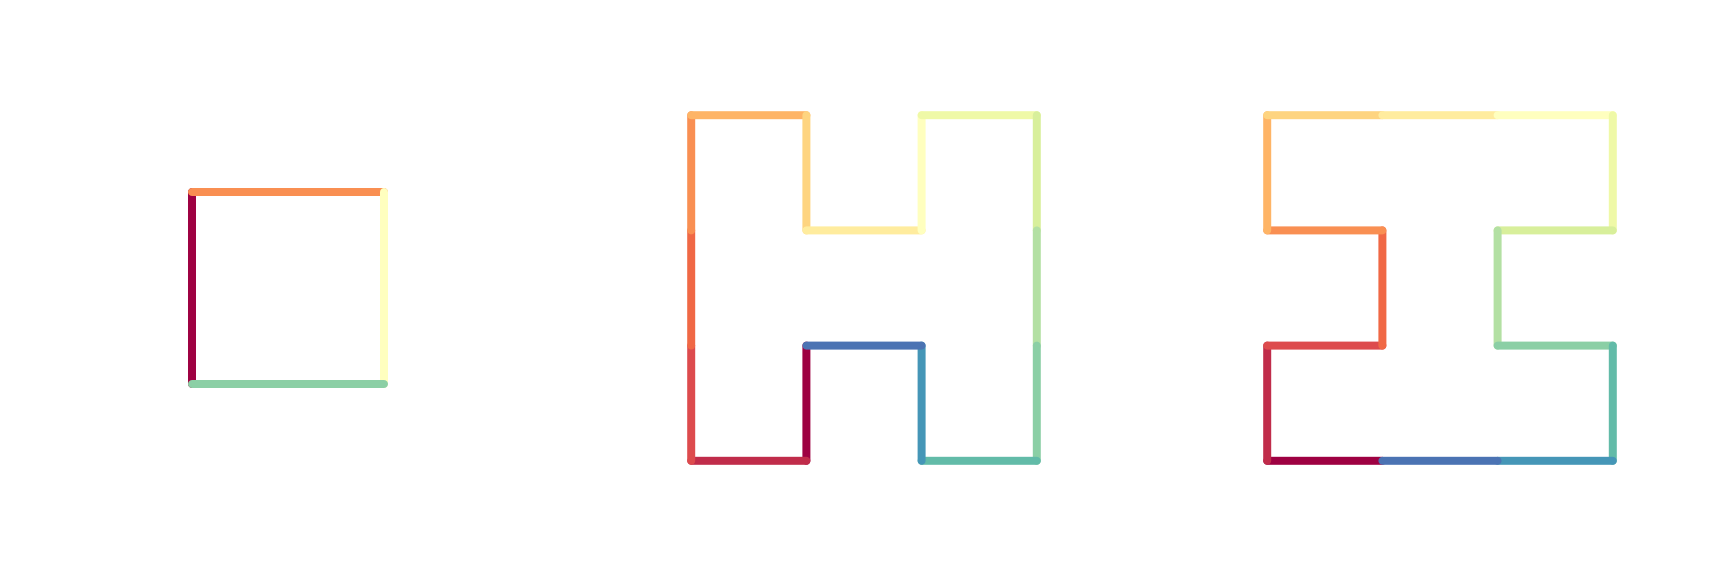
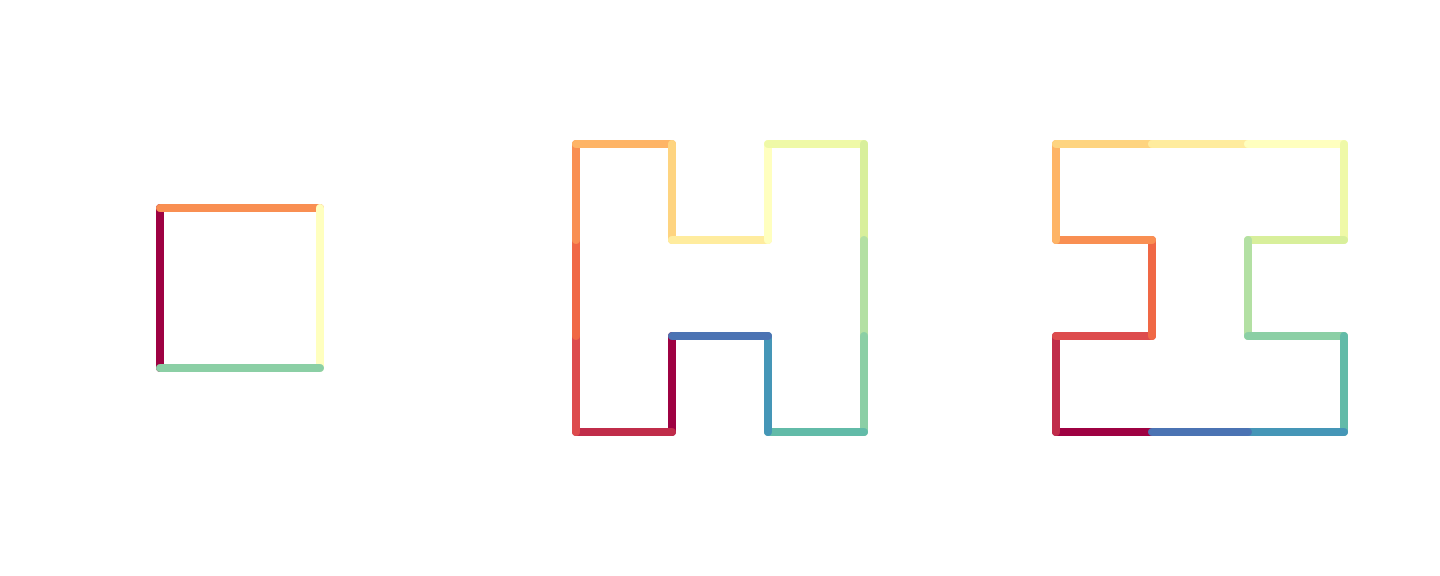
update vignette

diff --git a/docs/articles/h_curve.html b/docs/articles/h_curve.html
@@ -96,6 +96,9 @@
 
     
     
+<div class="section level2">
+<h2 id="construction-and-expansion">Construction and expansion<a class="anchor" aria-label="anchor" href="#construction-and-expansion"></a>
+</h2>
 <p>H-curve has the following two base units: an H-shape unit <span class="math inline">\(H_1\)</span> and its rotated version <span class="math inline">\(H_2\)</span>:</p>
 <div class="sourceCode" id="cb1"><pre class="downlit sourceCode r">
 <code class="sourceCode R"><span><span class="fu"><a href="../reference/draw_multiple_curves.html">draw_multiple_curves</a></span><span class="op">(</span><span class="va">H1</span>, <span class="va">H2</span>, nrow <span class="op">=</span> <span class="fl">1</span>, closed <span class="op">=</span> <span class="cn">TRUE</span><span class="op">)</span></span></code></pre></div>
@@ -131,6 +134,10 @@
 <p><img src="h_curve_files/figure-html/unnamed-chunk-5-1.png" width="768" style="display: block; margin: auto;"></p>
 <p>More generally, we can generalize the previous equation to any step of the iteration <span class="math inline">\(k\)</span>:</p>
 <p><span class="math display">\[ H^{(k)} = H_1^{(k-1)} \cdot c \cdot H_2^{(k-1)} \cdot c \cdot H_3^{(k-1)} \cdot c \cdot H_4^{(k-1)} \cdot c, \quad k \ge 1\]</span></p>
+</div>
+<div class="section level2">
+<h2 id="number-of-different-forms">Number of different forms<a class="anchor" aria-label="anchor" href="#number-of-different-forms"></a>
+</h2>
 <p>After the first iteration, the total number of forms of the H-curve denoted as <span class="math inline">\(n_1\)</span> is</p>
 <p><span class="math display">\[ n_1 = n_0^4 \cdot 2 \]</span></p>
 <p>where <span class="math inline">\(n_0\)</span> is the number of different forms of base patterns, which is 2. The second 2 is the number of connection method, i.e. “h” and “v”.</p>
@@ -147,6 +154,10 @@ n_k &amp;= n_{k-1}^4 \cdot 2\\
 <p><span class="math display">\[
 n_k = 2^{\cfrac{4^{k+1}-1}{3}} 
 \]</span></p>
+</div>
+<div class="section level2">
+<h2 id="more-general-forms">More general forms<a class="anchor" aria-label="anchor" href="#more-general-forms"></a>
+</h2>
 <p>More generally, <span class="math inline">\(H_1\)</span> and <span class="math inline">\(H_2\)</span> can be thought as building on an even smaller unit <span class="math inline">\(H_0\)</span>:</p>
 <p><span class="math display">\[
 \begin{align*}
@@ -161,7 +172,7 @@ H_2 &amp;= H_0 \cdot v \cdot H_0 \cdot v \cdot H_0 \cdot v \cdot H_0 \cdot v \\
 <span>    <span class="fu"><a href="../reference/h_curve.html">expand_h</a></span><span class="op">(</span><span class="va">H0</span>, connect <span class="op">=</span> <span class="st">"v"</span><span class="op">)</span>,</span>
 <span>    closed <span class="op">=</span> <span class="cn">TRUE</span></span>
 <span><span class="op">)</span></span></code></pre></div>
-<p><img src="h_curve_files/figure-html/unnamed-chunk-6-1.png" width="864" style="display: block; margin: auto;"></p>
+<p><img src="h_curve_files/figure-html/unnamed-chunk-6-1.png" width="720" style="display: block; margin: auto;"></p>
 <p>Also the connection methods for the four units are not necessary to be the same. In the followng example, we take <span class="math inline">\(H_0\)</span> as the base unit and take <code>vhvh</code> as the connection method, i.e. the vertical segment of the first unit, the horizontal segment of the second unit, the vertical segment of the third unit and the horizontal segment of the fourth segment are opened:</p>
 <div class="sourceCode" id="cb5"><pre class="downlit sourceCode r">
 <code class="sourceCode R"><span><span class="va">fun</span> <span class="op">=</span> <span class="kw">function</span><span class="op">(</span><span class="va">h</span>, <span class="va">k</span><span class="op">)</span> <span class="op">{</span></span>
@@ -170,6 +181,10 @@ H_2 &amp;= H_0 \cdot v \cdot H_0 \cdot v \cdot H_0 \cdot v \cdot H_0 \cdot v \\
 <span><span class="op">}</span></span>
 <span><span class="fu">fun</span><span class="op">(</span><span class="va">H0</span>, <span class="fl">5</span><span class="op">)</span> <span class="op">|&gt;</span> <span class="fu"><a href="../reference/plot_segments.html">plot_segments</a></span><span class="op">(</span>closed <span class="op">=</span> <span class="cn">TRUE</span><span class="op">)</span></span></code></pre></div>
 <p><img src="h_curve_files/figure-html/unnamed-chunk-7-1.png" width="576" style="display: block; margin: auto;"></p>
+</div>
+<div class="section level2">
+<h2 id="global-structure-is-unchanged">Global structure is unchanged<a class="anchor" aria-label="anchor" href="#global-structure-is-unchanged"></a>
+</h2>
 <p>Last, although H-curve has a large number of different forms, different settings only affect foldings locally in the curve, while its global structure is still unchanged:</p>
 <div class="sourceCode" id="cb6"><pre class="downlit sourceCode r">
 <code class="sourceCode R"><span><span class="fu"><a href="../reference/draw_multiple_curves.html">draw_multiple_curves</a></span><span class="op">(</span></span>
@@ -180,11 +195,14 @@ H_2 &amp;= H_0 \cdot v \cdot H_0 \cdot v \cdot H_0 \cdot v \cdot H_0 \cdot v \\
 <span>    nrow <span class="op">=</span> <span class="fl">2</span></span>
 <span><span class="op">)</span></span></code></pre></div>
 <p><img src="h_curve_files/figure-html/unnamed-chunk-8-1.png" width="768" style="display: block; margin: auto;"></p>
+</div>
   </div>
 
   <div class="col-md-3 hidden-xs hidden-sm" id="pkgdown-sidebar">
 
-      </div>
+        <nav id="toc" data-toggle="toc"><h2 data-toc-skip>Contents</h2>
+    </nav>
+</div>
 
 </div>
 
